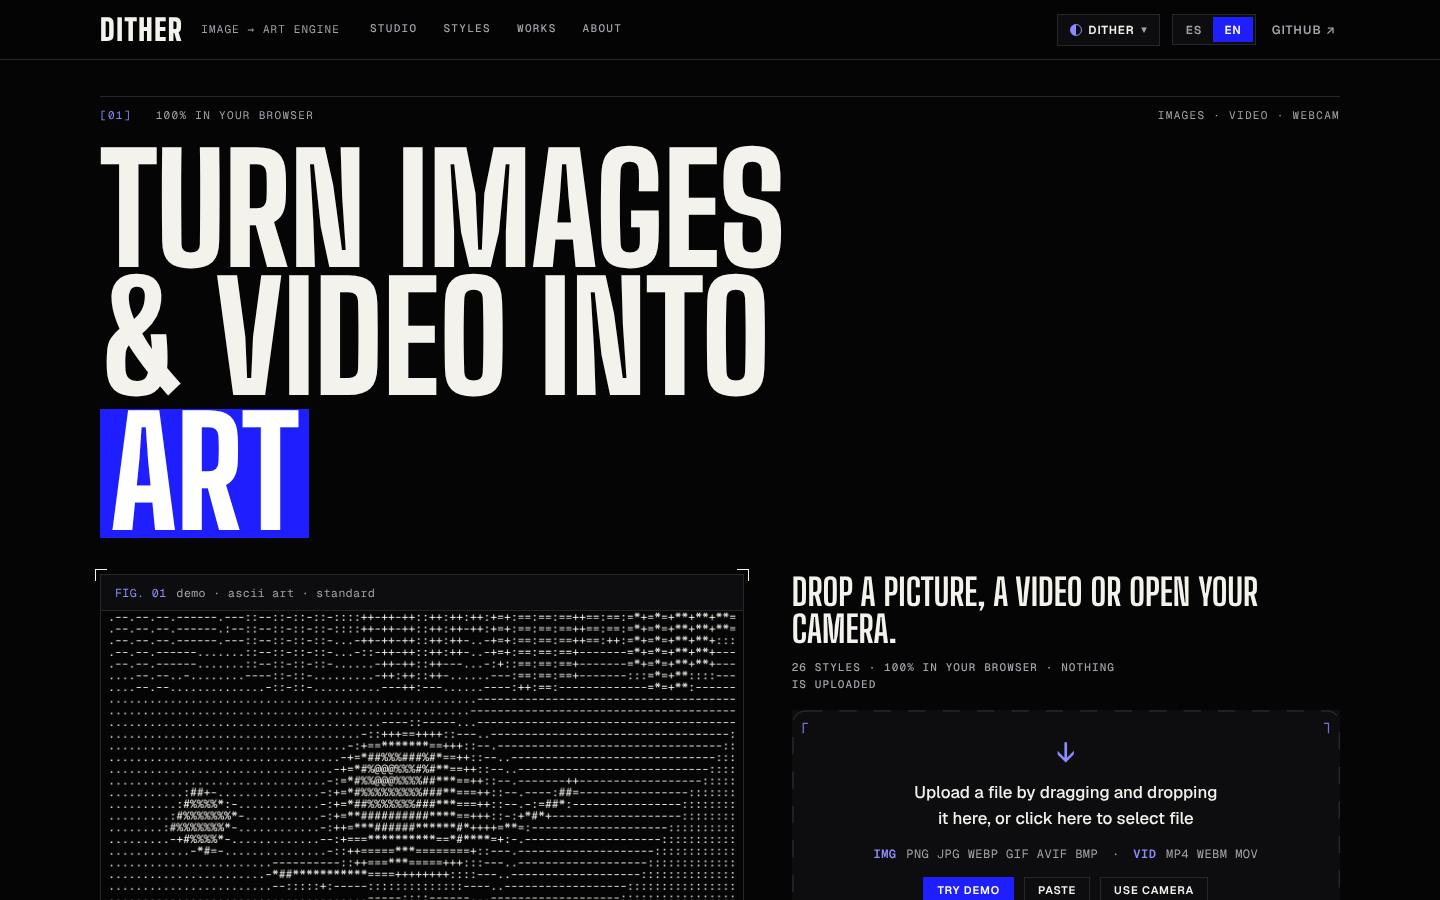
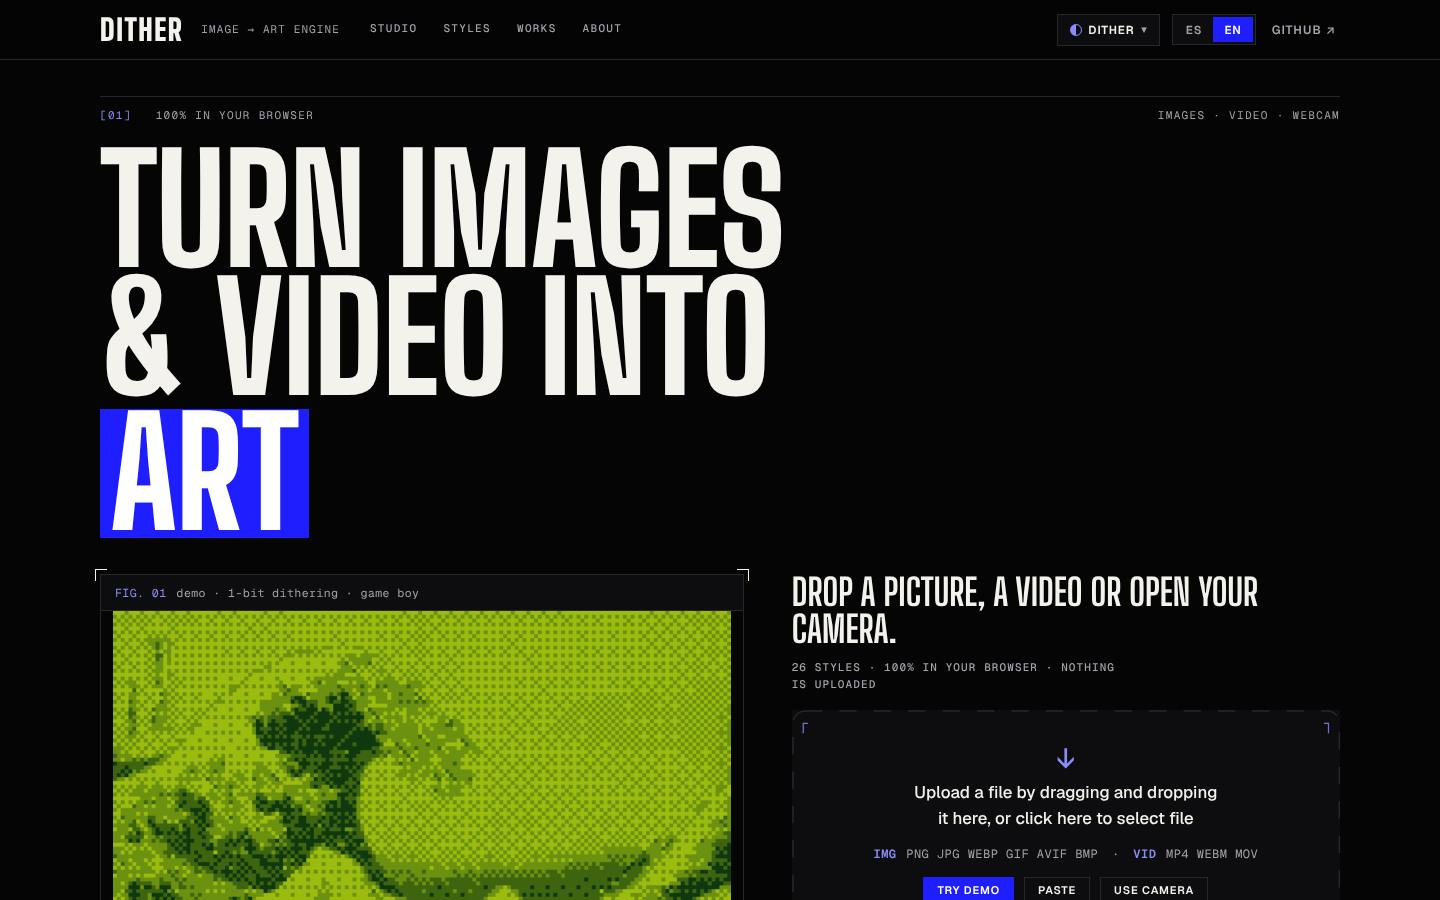
docs(readme): image tools, animated Great Wave demo, new layout and credits; regenerate screenshots

Changed region(s): [[0.0625, 0.6533, 0.5312, 1.0], [0.7188, 0.84, 0.75, 0.8711]]

diff --git a/README.md b/README.md
@@ -7,7 +7,7 @@ exported on your device, and nothing is uploaded.
 **Live:** <https://dither.ortzigar.org> · Spec: [`PLAN.md`](PLAN.md) (Spanish) · Agent rules: [`CLAUDE.md`](CLAUDE.md) ·
 Publishing: [`DEPLOY.md`](DEPLOY.md)
 
-![Home: the hero runs the real engine on a procedural demo, touring the styles](docs/screenshots/home.jpg)
+![Home: the hero runs the real engine on an animated black-and-white Great Wave, touring the styles](docs/screenshots/home.jpg)
 
 Its six themes, tokens and components (`css/tokens.css`, `css/components.css`) do not depend on the app's logic.
 
@@ -29,6 +29,14 @@ Workers, served as-is by GitHub Pages.
   - **Simulation:** Gray-Scott reaction-diffusion and Life-like cellular automata.
 - **Inputs:** images (PNG, JPG, WebP, GIF, AVIF and BMP, validated by their magic bytes), video (MP4, WebM and MOV) and the
   webcam. Drop a file anywhere on the page, paste one, or try the demo.
+- **Image tools** (in the *Cut-out & clean-up* group, for every style that takes an image):
+  - **Smart cut-out:** isolates the subject and flattens the background to white, black or the style's own empty colour. *Auto* learns the
+    background from the image border; it can also remove light or dark areas. It has a tolerance, an option to keep only
+    background touching the edge (so a white shirt or an eye survives), speck clean-up and a soft edge. It runs on every frame of a video or webcam.
+  - **Reduce noise:** an edge-preserving filter that smooths grain and compression speckle without erasing outlines.
+  - **ASCII tone:** *Auto levels*, *Gamma* and *Local contrast* make portraits readable, and the *Fine portrait* preset puts it together.
+  - Cleaner results: use sharp photos with the subject clearly apart from the background, raise *Reduce noise* to 3–6 for dark, webcam
+    or heavily compressed pictures, and keep *Clean specks* at 25–50. The cut-out works by colour, so it does best on plain backgrounds.
 - **Exports:** PNG at 1×, 2× or 4×; SVG (in px or on A4, A3, Letter or a custom page in mm, with Inkscape layers and a plotter
   mode); TXT, HTML and ANSI; PLY and JSON; and MP4 or WebM video with the original sound. You can also copy the result to the clipboard.
 - **Post-FX:** scanlines, CRT curvature, glow, chromatic aberration, vignette, grain and flicker, with a *Full CRT* preset.
@@ -60,7 +68,7 @@ All paths are relative, so the same files work under `https://<user>.github.io/<
 ```bash
 cd tests
 npm install
-npx playwright test               # the full suite takes about 20 minutes
+npx playwright test               # the full suite (about 460 tests) takes about 30 minutes
 ```
 
 `@playwright/test` is pinned to 1.56.1 because its Chromium (revision 1194) is the one preinstalled in the development
@@ -75,6 +83,10 @@ node make-icons.mjs          # assets/icons/*.png from assets/icons/dither-icon.
 node make-og-image.mjs       # assets/og-image.png (1200×630, Open Graph / Twitter card)
 node make-screenshots.mjs    # docs/screenshots/*.jpg (this README)
 ```
+
+The demo on the home page is a black-and-white *Great Wave* whose water moves in a seamless 3 s loop. It is stored as a
+sprite sheet and produced from `assets/source/gran-ola.jpg` with `python3 tools/make_demo_wave.py SOURCE.jpg
+assets/sample/gran-ola-sheet.webp` (needs numpy, scipy, scikit-image and Pillow; the site itself ships none of them).
 
 ## Visit counter
 
@@ -96,7 +108,9 @@ src/modes/        one module per output style (interface in PLAN.md 6) + registr
 src/ui/           header, dropzone, hero and gallery, controls (generated from schemas), presets, viewer, shortcuts, counter…
 src/io/           validation by magic bytes, sources, image/text/SVG/video export
 src/i18n/         ES and EN dictionaries
-assets/           brand logos (never edited), self-hosted fonts, icons, og-image.png
+assets/           brand logos (never edited), self-hosted fonts, icons, og-image.png, sample/ (the demo sheet), source/ (original pictures)
+designs/          design mockups of the site (not part of the app)
+tools/            asset generators that need Python (the demo animation)
 docs/screenshots/ README screenshots (generated)
 vendor/           third-party modules (kept local: no runtime CDN)
 worker/counter/   visit counter Worker (deployed separately)
@@ -126,8 +140,11 @@ the URL hash, and the image itself is never stored or sent anywhere.
 - Noise and 3D: simplex and curl noise; SDF raymarching (a homage to donut.c).
 - Simulation: Gray-Scott with Karl Sims' Laplacian.
 - Depth: Depth Anything V2 through transformers.js.
+- Image tools: bilateral filtering (noise), colour-distance flood fill from the border (cut-out), percentile levels, gamma and unsharp masking (ASCII tone).
 
 **Libraries:** video by [Mediabunny](vendor/README.md).
+
+**Demo picture:** *The Great Wave off Kanagawa* by Hokusai (c. 1831, public domain), turned into black and white and animated for Dither.
 
 **Fonts (SIL OFL):** Unbounded, Geist, Geist Mono, JetBrains Mono, VT323, IBM Plex Mono and Space Mono.
 
